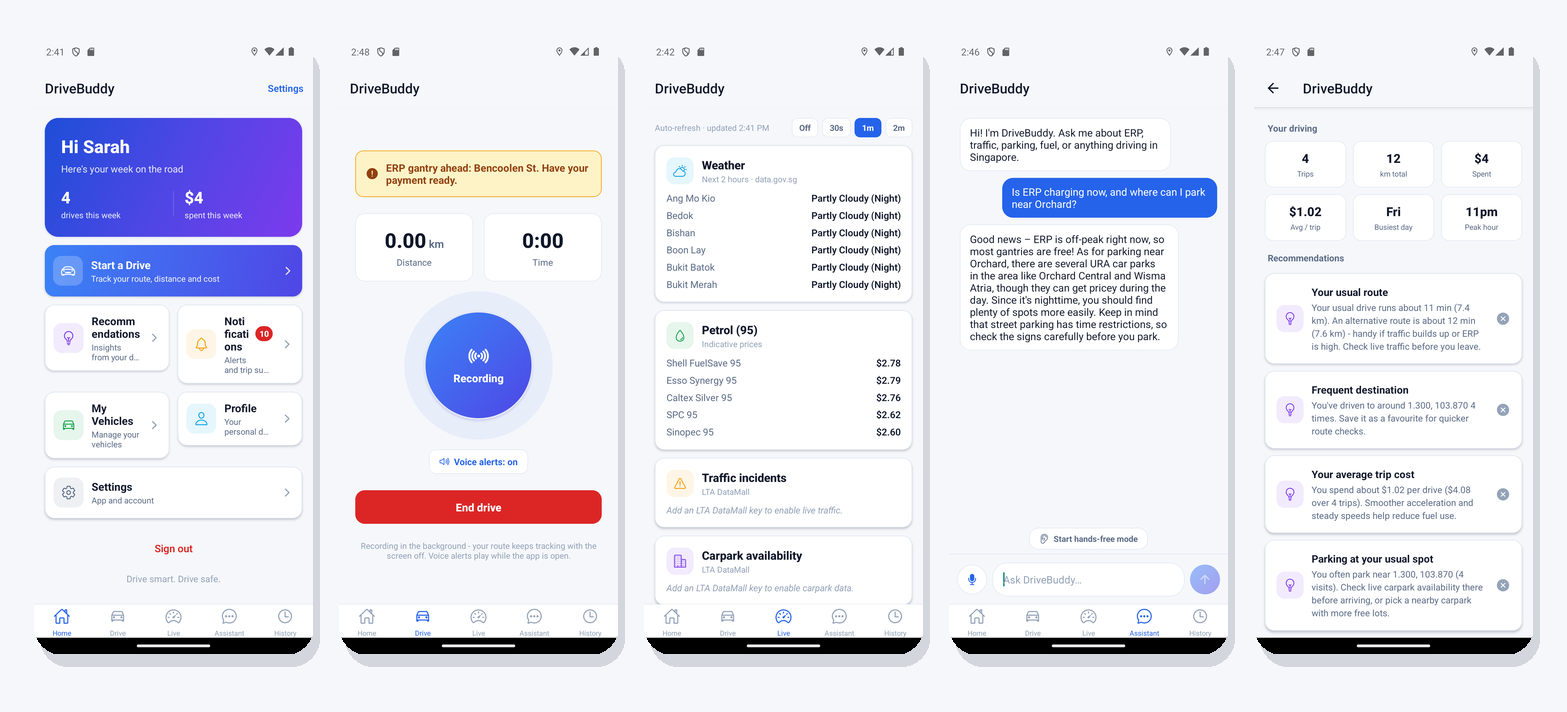
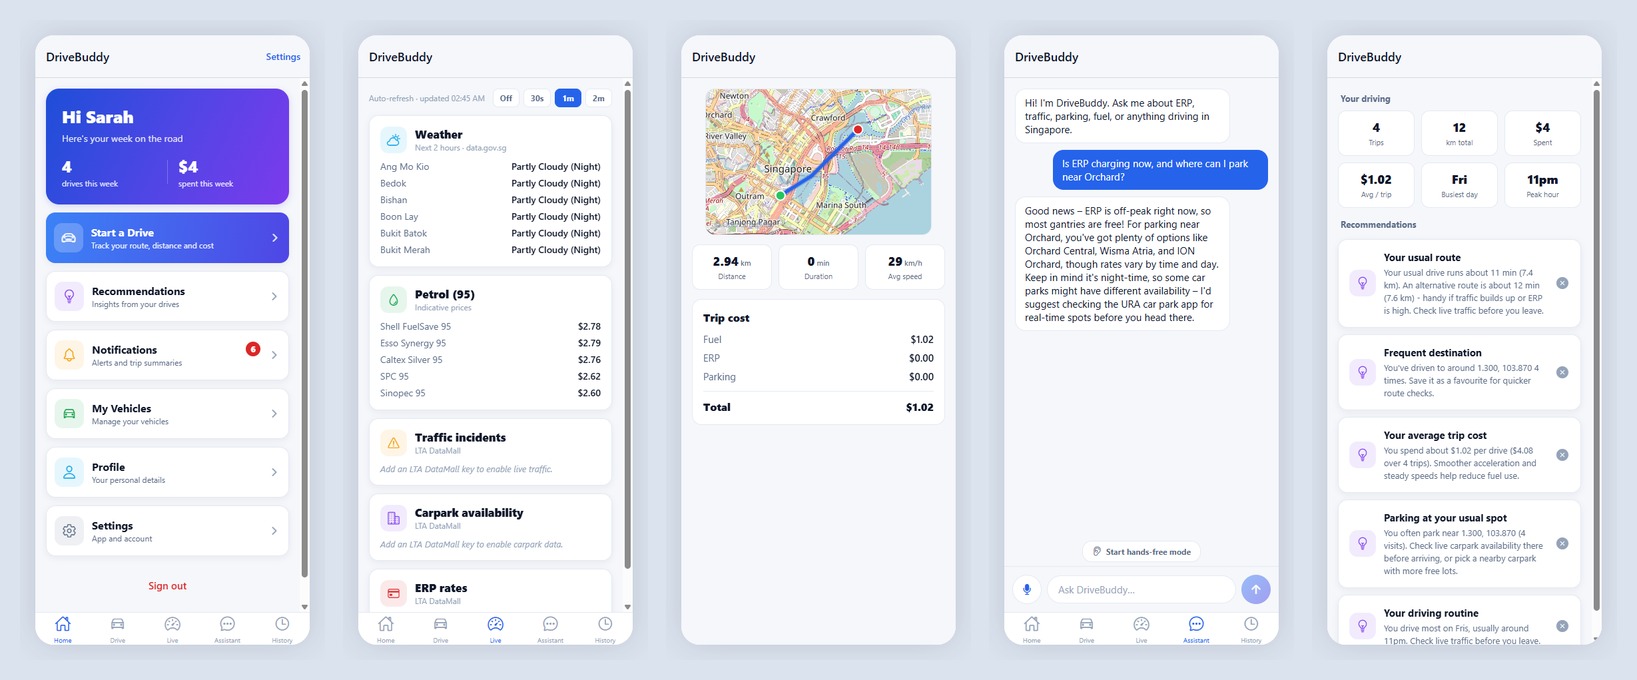
docs(readme): wow-factor rewrite with live device mockups
- regenerate hero + 13 device mockups captured live from the deployed app
  against the production API (reflects the current full-width home UI)
- live-demo CTA buttons (web + API), demo account, status/tech badges
- "See it drive" section with the in-drive ERP alert GIF
- highlights, consistent mockup gallery, refreshed diagrams (app flow,
  logical/physical architecture, sequences, deployment incl. deploy-web, ER, spec gate)
- remove stale native screenshots

diff --git a/README.md b/README.md
@@ -10,8 +10,18 @@ One Expo app, one NestJS API, fully serverless on AWS. Roughly **$0 to $2 per mo
 
 <img src="docs/screenshots/hero.png" alt="DriveBuddy screens" width="100%"/>
 
+&nbsp;
+
+[![Live demo](https://img.shields.io/badge/Live_demo-open_in_browser-2563eb?style=for-the-badge&logo=expo&logoColor=white)](https://elleskay.github.io/drivebuddy/)
+[![Live API](https://img.shields.io/badge/Live_API-/health-16a34a?style=for-the-badge&logo=amazonaws&logoColor=white)](https://tq7rrvits7.execute-api.ap-southeast-1.amazonaws.com/health)
+
+Demo account: **`demo@drivebuddy.app`** / **`DriveBuddy123!`** (or tap "Use the demo account")
+
+&nbsp;
+
 [![CI](https://github.com/elleskay/drivebuddy/actions/workflows/ci.yml/badge.svg)](https://github.com/elleskay/drivebuddy/actions/workflows/ci.yml)
 [![Deploy API](https://github.com/elleskay/drivebuddy/actions/workflows/deploy-api.yml/badge.svg)](https://github.com/elleskay/drivebuddy/actions/workflows/deploy-api.yml)
+[![Deploy Web](https://github.com/elleskay/drivebuddy/actions/workflows/deploy-web.yml/badge.svg)](https://github.com/elleskay/drivebuddy/actions/workflows/deploy-web.yml)
 [![Security](https://github.com/elleskay/drivebuddy/actions/workflows/security.yml/badge.svg)](https://github.com/elleskay/drivebuddy/actions/workflows/security.yml)
 
 ![Expo](https://img.shields.io/badge/Expo-React_Native-000?logo=expo&logoColor=white)
@@ -28,6 +38,7 @@ One Expo app, one NestJS API, fully serverless on AWS. Roughly **$0 to $2 per mo
 ## Table of contents
 
 - [Live demo](#live-demo)
+- [See it drive](#see-it-drive)
 - [Highlights](#highlights)
 - [Screens](#screens)
 - [Features](#features)
@@ -60,11 +71,15 @@ backend. The native-only parts (background GPS recording, push, microphone captu
 "not available on web" behaviour. The web demo is built and published by the `deploy-web` workflow
 (Expo web export to GitHub Pages).
 
+---
+
+## See it drive
+
 The one thing web cannot show is the native hero feature: Journey Mode recording a drive and firing an
-in-drive voice and banner alert as you approach an ERP gantry. Here it is on an Android device:
+in-drive voice and banner alert as you approach an ERP gantry. Here it is on an Android device.
 
 <p align="center">
-  <img src="docs/demo/drive.gif" alt="Journey Mode: start a drive, the recording pulse, and an in-drive ERP gantry alert" width="280"/>
+  <img src="docs/demo/drive.gif" alt="Journey Mode: start a drive, the recording pulse, and an in-drive ERP gantry alert" width="300"/>
 </p>
 
 ---
@@ -84,36 +99,37 @@ in-drive voice and banner alert as you approach an ERP gantry. Here it is on an 
 
 ## Screens
 
+Captured live from the deployed app running against the production API.
+
 <table>
   <tr>
-    <td align="center"><img src="docs/screenshots/login.png" width="200"/><br/><sub><b>Sign in</b></sub></td>
-    <td align="center"><img src="docs/screenshots/home.png" width="200"/><br/><sub><b>Home</b></sub></td>
-    <td align="center"><img src="docs/screenshots/journey.png" width="200"/><br/><sub><b>Journey Mode</b></sub></td>
+    <td align="center"><img src="docs/mockups/login.png" width="200"/><br/><sub><b>Sign in</b></sub></td>
+    <td align="center"><img src="docs/mockups/home.png" width="200"/><br/><sub><b>Home</b></sub></td>
+    <td align="center"><img src="docs/mockups/journey.png" width="200"/><br/><sub><b>Journey Mode</b></sub></td>
   </tr>
   <tr>
-    <td align="center"><img src="docs/screenshots/journey-alert.png" width="200"/><br/><sub><b>In-drive alert</b></sub></td>
-    <td align="center"><img src="docs/screenshots/trip-summary.png" width="200"/><br/><sub><b>Trip Summary</b></sub></td>
-    <td align="center"><img src="docs/screenshots/dashboard.png" width="200"/><br/><sub><b>Live Info</b></sub></td>
+    <td align="center"><img src="docs/mockups/dashboard.png" width="200"/><br/><sub><b>Live Info</b></sub></td>
+    <td align="center"><img src="docs/mockups/assistant.png" width="200"/><br/><sub><b>AI Assistant</b></sub></td>
+    <td align="center"><img src="docs/mockups/recommendations.png" width="200"/><br/><sub><b>Recommendations</b></sub></td>
   </tr>
   <tr>
-    <td align="center"><img src="docs/screenshots/assistant.png" width="200"/><br/><sub><b>AI Assistant</b></sub></td>
-    <td align="center"><img src="docs/screenshots/recommendations.png" width="200"/><br/><sub><b>Recommendations</b></sub></td>
-    <td align="center"><img src="docs/screenshots/notifications.png" width="200"/><br/><sub><b>Notifications</b></sub></td>
+    <td align="center"><img src="docs/mockups/trip-summary.png" width="200"/><br/><sub><b>Trip Summary</b></sub></td>
+    <td align="center"><img src="docs/mockups/history.png" width="200"/><br/><sub><b>Trip History</b></sub></td>
+    <td align="center"><img src="docs/mockups/vehicles.png" width="200"/><br/><sub><b>My Vehicles</b></sub></td>
   </tr>
   <tr>
-    <td align="center"><img src="docs/screenshots/notification-settings.png" width="200"/><br/><sub><b>Alert Settings</b></sub></td>
-    <td align="center"><img src="docs/screenshots/history.png" width="200"/><br/><sub><b>Trip History</b></sub></td>
-    <td align="center"><img src="docs/screenshots/vehicles.png" width="200"/><br/><sub><b>My Vehicles</b></sub></td>
+    <td align="center"><img src="docs/mockups/notifications.png" width="200"/><br/><sub><b>Notifications</b></sub></td>
+    <td align="center"><img src="docs/mockups/notification-settings.png" width="200"/><br/><sub><b>Alert Settings</b></sub></td>
+    <td align="center"><img src="docs/mockups/profile.png" width="200"/><br/><sub><b>Profile</b></sub></td>
   </tr>
   <tr>
-    <td align="center"><img src="docs/screenshots/profile.png" width="200"/><br/><sub><b>Profile</b></sub></td>
-    <td align="center"><img src="docs/screenshots/settings.png" width="200"/><br/><sub><b>Settings</b></sub></td>
+    <td align="center"><img src="docs/mockups/settings.png" width="200"/><br/><sub><b>Settings</b></sub></td>
+    <td></td>
     <td></td>
   </tr>
 </table>
 
-> Real screenshots from the app running on Android against the live API. Live traffic, ERP and
-> carpark show "add LTA key" placeholders until a DataMall key is configured.
+> Live traffic, ERP and carpark show "add LTA key" placeholders until a DataMall key is configured.
 
 ---
 
@@ -337,7 +353,7 @@ sequenceDiagram
 ## Deployment
 
 CI/CD runs on GitHub Actions with OIDC, so no AWS keys are ever stored. The API deploys through CDK;
-the app ships through EAS.
+the web demo ships through Expo web export to Pages; the app ships through EAS.
 
 ```mermaid
 flowchart LR
@@ -348,23 +364,26 @@ flowchart LR
         CIW["ci: typecheck, lint, build, cdk synth"]
         SEC["security: CodeQL, gitleaks, npm audit"]
         DEP["deploy-api: migrate, build, cdk deploy, smoke test"]
+        WEB["deploy-web: expo export, GitHub Pages"]
         MOB["mobile-build: EAS build / submit / OTA"]
     end
 
     GH --> CIW
     GH --> SEC
     GH -- "main" --> DEP
+    GH -- "main" --> WEB
     GH -- "release" --> MOB
 
     DEP -- "AssumeRole (OIDC)" --> AWS["AWS: CloudFormation / Lambda / API GW / SQS / S3 / EventBridge"]
     DEP -- "prisma migrate deploy" --> NEON[("Neon Postgres")]
+    WEB --> PAGES["GitHub Pages (web demo)"]
     MOB --> STORES["App Store / Play / Expo Update"]
     STORES --> Device["User device"]
 
     classDef ci fill:#e8f0ff,stroke:#2563eb,color:#0f172a;
     classDef tgt fill:#fff7ed,stroke:#f59e0b,color:#0f172a;
-    class CIW,SEC,DEP,MOB ci;
-    class AWS,NEON,STORES tgt;
+    class CIW,SEC,DEP,WEB,MOB ci;
+    class AWS,NEON,PAGES,STORES tgt;
 ```
 
 The CDK app provisions everything in [Physical architecture](#physical-architecture-aws) via the
@@ -515,13 +534,14 @@ and Maestro. See `docs/TESTING.md` and the root `CLAUDE.md` for the full protoco
 | Layer | Choice |
 |---|---|
 | Mobile | Expo / React Native, Expo Router, `expo-location` / `-task-manager` / `-notifications` / `-av` / `-speech` / `-secure-store`, `expo-linear-gradient`, Ionicons |
+| Web demo | Expo web export (react-native-web) on GitHub Pages |
 | API | NestJS 10, class-validator, `@nestjs/jwt` + passport-jwt, bcryptjs |
 | Data | Neon serverless Postgres (Singapore) via Prisma 6 |
 | Compute | AWS Lambda (ARM64, Node 20) behind API Gateway HTTP API |
 | Async | SQS (+ DLQ) worker, EventBridge schedules (daily + hourly) |
 | AI | Anthropic Claude API (LLM), Polly (TTS), Transcribe (STT), S3 scratch |
 | IaC | AWS CDK (TypeScript), the reusable `NestjsApi` construct |
-| CI/CD | GitHub Actions (OIDC, no stored keys): CI, Deploy API (CDK + smoke test), Security, Mobile build (EAS) |
+| CI/CD | GitHub Actions (OIDC, no stored keys): CI, Deploy API (CDK + smoke test), Deploy Web, Security, Mobile build (EAS) |
 | Quality | Spec-driven gate (`@platform/spec-test`), CodeQL, gitleaks, Dependabot |
 
 ---
@@ -543,7 +563,7 @@ drivebuddy/
   infra/cdk/drivebuddy/   CDK app: NestjsApi construct, S3, IAM, EventBridge
   infra/cdk/_setup/       GitHub OIDC deploy role
   packages/spec-test/     spec-coverage gate + runners (vitest/jest/maestro/playwright)
-  docs/                   SETUP, DEPLOY, MOBILE, TESTING, screenshots
+  docs/                   SETUP, DEPLOY, MOBILE, TESTING, screenshots, mockups
 ```
 
 ---
@@ -566,6 +586,7 @@ npm run start:dev               # NestJS on http://localhost:3000
 # 3. app
 cd ../../apps/drivebuddy
 npx expo start                  # press 'i' or 'a', or scan with Expo Go
+npx expo start --web            # or run the web build locally
 ```
 
 The app reads its API base URL from `EXPO_PUBLIC_API_URL` (falling back to `app.json`, key
